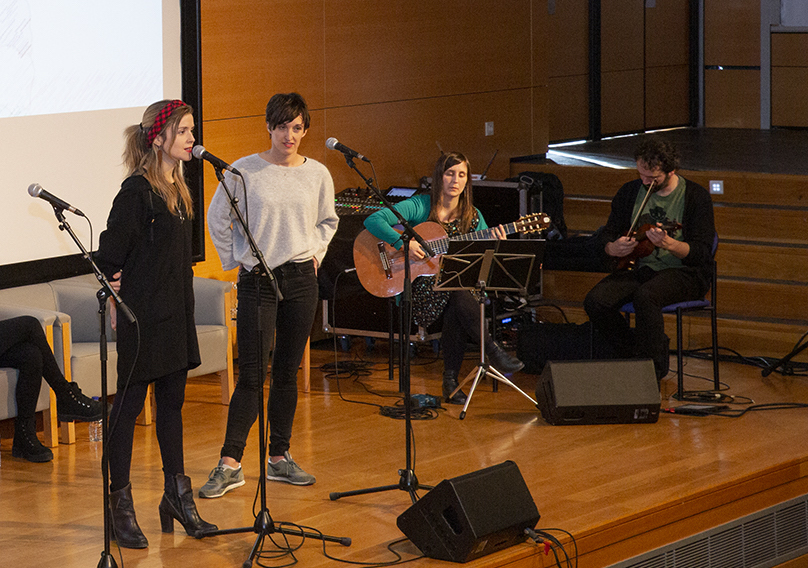
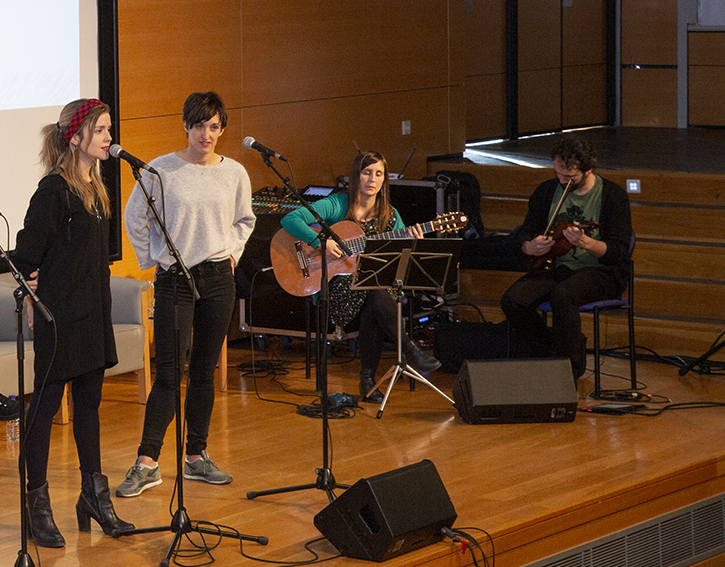
clausura bg

diff --git a/clausura.html b/clausura.html
@@ -37,7 +37,7 @@
     }}
     @media print, screen and (max-width:990px){
     .jumbotron{
-          background-position: 60% 40%;background-image: url(imgs/bgphone_clausura.jpg);
+          background-position: 60% 30%;background-image: url(imgs/bgphone_clausura.jpg);
     }}
     .coloreventosheader{color: var(--bgRSME);}
     </style>
